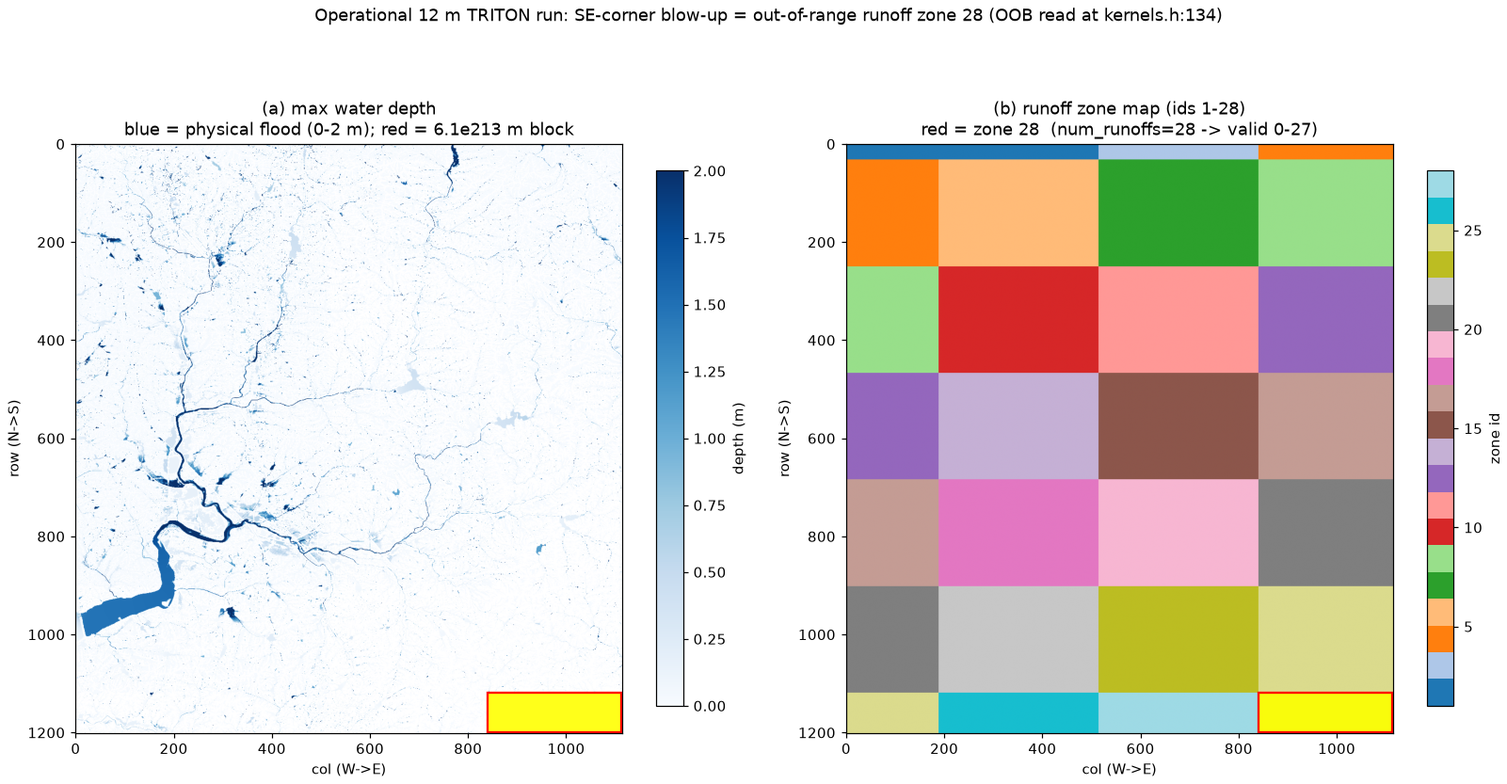
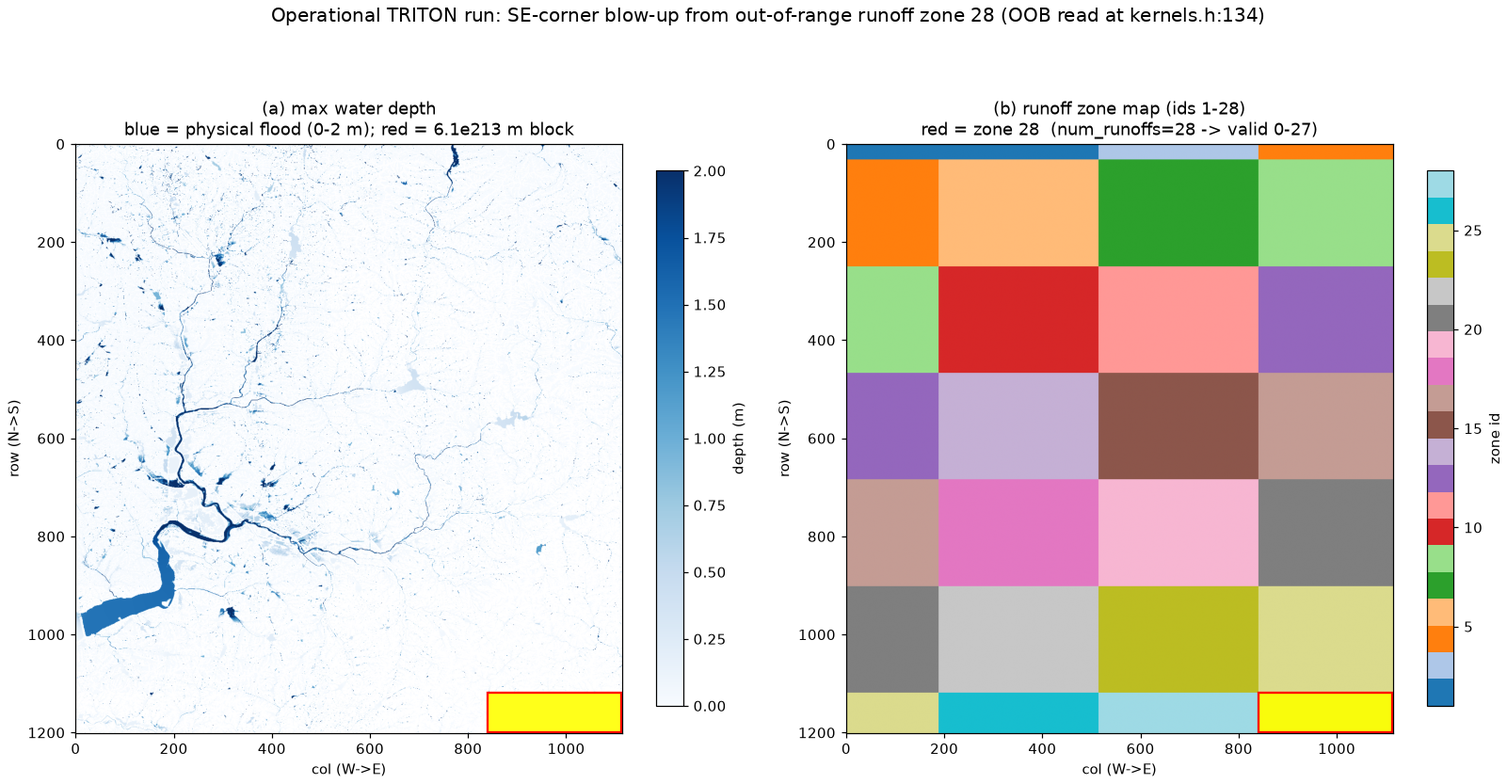
Correct the binary-header claim, redact the run's location, cite the config-checking literature
Reviewing the paper against the repository turned up one factual error, two
claims the repository itself contradicts, and a novelty claim resting on a
field the bibliography never cited.

The header claim was wrong. The paper said TRITON's non-DEM binary rasters
carry no header. The source says otherwise: DEM_HEADER_SIZE is 6 and is seeked
past without validation, while BIN_DEFAULT_HEADER_SIZE is 2 and *is* validated,
so the runoff map, Manning field and initial depth each carry a two-value
[nrows,ncols] header the solver aborts on. The fixtures decode exactly that
way -- dem.bin is 6 f64 then cells, roff.bin is 2 int32 then cells. Nothing is
header-less; the two kinds of raster carry different headers, read by different
overloads. What the tool-free agents actually got wrong was demanding the DEM's
six-number header on the runoff map, where the solver would read it as garbage
dimensions. Three sentences in the paper and three comments in diagnostics.ts
asserted the wrong invariant. Behaviour was already correct -- GRID_HEADER_TOL
absorbs either header -- so no verdict changes.

Two claims the repository contradicts. The appendix pointed Layer 2 at
eval/diagnose-corpus/build as though the solver shipped; it is git-ignored, and
a reviewer must build it and set TRITON_EXE. And "rebuilds byte-for-byte" is
false of the archive: two builds from identical tracked content produce
identical files but different zips, because zip stores mtimes. Verification
[…]

Changed region(s): [[0.1874, 0.0, 0.8432, 0.0312]]

diff --git a/src/services/diagnostics.ts b/src/services/diagnostics.ts
@@ -33,8 +33,9 @@ export interface DiagnosisProbe {
    * (`load_header_from_dem_file_binary`: the first 6 elements are ncols,nrows,xll,yll,
    * cellsize,nodata of the matrix's element type). Returns the grid + bytes-per-cell only
    * when the file size is self-consistent with `(6 + ncols*nrows) * bpc` at float32 or
-   * float64 — so a headerless/malformed DEM yields null. Aux rasters are headerless, so
-   * this is only meaningful for the DEM.
+   * float64 — so a headerless/malformed DEM yields null. Aux rasters carry a 2-value header
+   * rather than this 6-value one, so they never satisfy that shape: this is DEM-only by
+   * construction, not because the others are header-less.
    */
   binHeader(absPath: string): { ncols: number; nrows: number; bpc: number } | null;
   /**
@@ -299,8 +300,9 @@ const hydrographDelimiterCheck: Check = (cfg, cfgDir, probe) => {
 // Real TRITON BIN rasters carry a small (<~64 B observed) header/padding; a wrong grid
 // differs by at least one row (thousands of bytes), so this absorbs headers without masking
 // a genuine mismatch. Kept well below the float32/float64 gap of any real (large) grid.
-// Aux rasters are headerless matrices = exactly cells*bpc bytes; a real deck may carry a few
-// bytes of padding, so allow a small slack that still catches a whole-cell (grid) difference.
+// A same-grid aux raster is cells*bpc plus its own 2-value header (BIN_DEFAULT_HEADER_SIZE),
+// where the DEM's is 6-value, so identical grids still differ by 4*bpc; allow a slack that
+// absorbs either header and still catches a whole-cell (grid) difference.
 const GRID_HEADER_TOL = 64;
 
 /** Cell count from a raster's same-basename `.asc` sidecar (e.g. dem.bin → dem.asc), or null. */
@@ -436,12 +438,15 @@ const gridSizeCheck: Check = (cfg, cfgDir, probe) => {
     }
   } else if (fmt === 'BIN') {
     // Only the DEM is self-describing: it carries a 6-value header (ncols,nrows,...) exactly
-    // as TRITON reads it (load_header_from_dem_file_binary). Aux rasters (runoff map, n, h,
-    // qx, qy) are headerless matrices = cells*bpc bytes. So take the DEM grid from its binary
-    // header (preferred) or a same-basename .asc sidecar, then require each aux raster to fit
-    // that grid at float32/float64. Byte-for-byte equality is the WRONG invariant (a valid DEM
-    // is 6*bpc larger than a same-grid aux, and dtypes may differ); use it only as a last
-    // resort when the DEM grid is unknowable (no header AND no sidecar).
+    // as TRITON reads it (DEM_HEADER_SIZE=6, seeked past without validation). Aux rasters
+    // (runoff map, n, h, qx, qy) are NOT headerless -- they carry a 2-value [nrows,ncols]
+    // header that TRITON validates (BIN_DEFAULT_HEADER_SIZE=2, matrix_io.h:225) -- but their
+    // header is a different size from the DEM's, so their byte counts differ by 4*bpc even on
+    // an identical grid. So take the DEM grid from its binary header (preferred) or a
+    // same-basename .asc sidecar, then require each aux raster to fit that grid at
+    // float32/float64 within GRID_HEADER_TOL, which absorbs either header. Byte-for-byte
+    // equality is the WRONG invariant (headers differ in size, and dtypes may differ); use it
+    // only as a last resort when the DEM grid is unknowable (no header AND no sidecar).
     const demSize = probe.size(demAbs);
     const bh = probe.binHeader(demAbs);
     const demCells = bh ? bh.ncols * bh.nrows : companionGridCells(probe, demAbs);

diff --git a/paper/main.tex b/paper/main.tex
@@ -75,7 +75,7 @@ tellingly---raises how often the agent points at the \emph{right} fault, not mer
 from \textbf{$78$--$80\%$} to \textbf{$98\%$}. Second, the tool reduces false alarms on clean
 projects for the weaker client: Claude's false alarms fall from $3/12$ to $1/12$, while Codex
 already raises none. Third, the tool \emph{reduces} cost---\textbf{$\sim$1.3--1.6$\times$ fewer}
-back-and-forth turns, \textbf{$\sim$2--4$\times$ fewer} output tokens, and $1.6$--$3.8\times$
+back-and-forth turns, \textbf{$\sim$2.3--4.4$\times$ fewer} output tokens, and $1.6$--$3.8\times$
 less wall-clock time---at under \textbf{1.5\%} overhead. Finally, we validate the tool on a
 \emph{real} operational project, where the tool statically catches---in about a second---an
 out-of-range runoff-indexing bug that silently corrupted a production GPU run. We generalize
@@ -127,11 +127,11 @@ configuration file and input files and reports faults \emph{without ever running
 We study this question with TRITON~\cite{triton,tritondocs}, an open-source flood-simulation
 solver developed at Oak Ridge National Laboratory. TRITON solves the full 2D shallow water
 equations to model flood propagation across heterogeneous terrain, and is routinely used for
-operational flood forecasting; TRITON can run on one or many GPUs. A
+flood forecasting; TRITON can run on one or many GPUs. A
 single TRITON run is described entirely by a plain-text \texttt{.cfg} configuration file together
-with the input files that file names---mostly \emph{rasters} (grids of values covering the
-terrain, such as ground elevation) and time series---runoff hydrographs, tabulating discharge
-per zone. These files are
+with the input files that configuration names: mostly \emph{rasters} (grids of values covering the
+terrain, such as ground elevation) and time series (runoff hydrographs, which tabulate discharge
+per zone). These files are
 exactly where the setup-level mistakes we study live. Our tool, \texttt{diagnose\_project},
 inspects these files, and has three defining properties:
 \begin{itemize}
@@ -146,8 +146,9 @@ inspects these files, and has three defining properties:
         wrong. Because it inspects without executing, we call it a \emph{static} check.
   \item \textbf{One implementation, offered wherever the agent lives.} The same core logic is
         offered to agents two ways: as a Model Context Protocol (MCP) server for external agents such as
-        Claude Code or Codex, and as a built-in tool inside the VS~Code Copilot editor. Any action that would change files
-        first asks the user for approval.
+        Claude Code or Codex, and as a built-in tool inside the VS~Code Copilot editor. Diagnosis
+        itself is read-only, and the tools that start a run or unpack files from outside the
+        project first ask the user for approval.
 \end{itemize}
 
 Static diagnosis suits this setting because a TRITON run is declared rather than assembled: the
@@ -193,7 +194,7 @@ failure that prompted the tool.
 \centering
 \includegraphics[width=0.60\textwidth]{figures/operational-anomaly.png}
 \caption{A real ``works-but-wrong'' failure in an operational TRITON run
-($4458\times4802$ cells at 12\,m). (a)~Final maximum water depth: a physical dendritic flood
+($4458\times4802$ cells). (a)~Final maximum water depth: a physical dendritic flood
 (blue, $0$--$2$\,m) \emph{plus} a hard-edged $6\times10^{213}$\,m block in the southeast
 (red). (b)~The runoff zone map: the block sits exactly on zone~28. With
 \texttt{num\_runoffs}=28 and 0-based indexing, that reads one entry past the runoff table.
@@ -372,10 +373,12 @@ inspect the workflow and act on it safely.
 The Triforge extension reaches this legibility through four patterns that wrap the tools, each addressing one part
 of that goal. The first makes the workflow \textbf{readable}: each project ships small plain-text
 files, \texttt{AGENTS.md} and \texttt{CLAUDE.md}, that say what the project is and how it is laid out,
-so an agent understands the project just by reading these files. The second keeps action \textbf{safe}: a read-only
-tool such as diagnosis runs on its own, but any tool that writes files or starts a run first stops and
-asks the person to approve it, so an agent cannot quietly change a project or launch an expensive job
-without consent. The third keeps a project \textbf{portable}: the commands \texttt{export\_tfp} and
+so an agent understands the project just by reading these files. The second keeps action \textbf{safe}:
+a read-only tool such as diagnosis runs on its own, while the tools whose effects reach outside the
+project---starting a run, or unpacking material into one---first stop and ask the person to approve
+them (marked $^\ddagger$ in Table~\ref{tab:tools}), so an agent cannot launch an expensive job or
+import foreign files without consent. The remaining tools write project-local artifacts the user
+asked for, and are not gated. The third keeps a project \textbf{portable}: the commands \texttt{export\_tfp} and
 \texttt{import\_tfp} bundle an entire project---its configuration, inputs, and outputs---into one file
 that can move between a laptop and an HPC cluster; this is the path that later carried the corrected
 run of Section~\ref{sec:realworld} back from the cluster to be re-checked. The fourth keeps action
@@ -414,8 +417,11 @@ against the real TRITON solver.
 Making the test projects \emph{faithful} to the real solver turned out to matter to the result.
 Our binary elevation grids were at first stored without a header. The real solver, however,
 expects a six-number header (grid width and height, corner coordinates, cell size, and a no-data
-marker) at the start of a binary elevation file and reads the data after that header; the other
-binary inputs have no header (we confirmed all of this in the TRITON source). Those
+marker) at the start of a binary elevation file and skips past it to the data; every \emph{other}
+binary raster---runoff map, Manning field, initial depth---instead carries a two-value
+\texttt{[nrows,\,ncols]} header that the solver \emph{validates}, aborting on a mismatch. No
+binary input is header-less; the two kinds of raster simply carry different headers, read by
+different overloads (we confirmed all of this in the TRITON source). Those
 header-less---and often all-zero---placeholder elevation files handed the tool-less agent a
 believable but wrong complaint (``the binary inputs are missing their headers''). That wrong
 complaint pushed aside the intended fault on the binary projects, and so \emph{overstated} the
@@ -512,8 +518,8 @@ numbers exactly (the script writes them to \texttt{report.json}). But a perfect 
 that the tool agrees with \emph{our own} answer key. A perfect score does not show that the key
 itself is right, and a skeptic could fairly suspect that we built the test set to suit the tool.
 To show that the key is right, we check the key against the program the key describes: we run
-every project through the real TRITON build (\texttt{eval/diagnose-corpus/build}) and watch what
-the solver does. Section~\ref{sec:realworld} adds a second, independent check---the tool on a
+every project through a real TRITON build (built as the appendix records; the harness is pointed at
+it with \texttt{TRITON\_EXE}) and watch what the solver does. Section~\ref{sec:realworld} adds a second, independent check---the tool on a
 real project we did not build.
 
 The solver can do one of three things: stop while loading the setup files, run to the end, or
@@ -562,13 +568,13 @@ Doubtful          & finishes, output check unsure & 2 \\
 \end{table}
 
 Checking against the real solver also improved the tool. The check exposed two formatting rules
-the solver silently requires---a numeric header on binary runoff maps, and a comma rather than a
-space between values in rainfall files---and we turned each rule into a new check
+the solver silently requires: a numeric header on binary runoff maps, and a comma rather than a
+space between values in rainfall files. We turned each into a new check
 (Table~\ref{tab:checks}). The check also corrected a project we had mislabeled: a rainfall file
 we had filed as clean is in fact rejected by the solver for using spaces instead of commas, so
 that project is really a fault---one that both tool-free agents had missed. The full per-project
-result---each project's tool finding, solver outcome, and decoded setup---is published for
-reviewers~\cite{artifact-oracle}.
+result is published for reviewers~\cite{artifact-oracle}: each project's tool finding, solver
+outcome, and decoded setup.
 
 \subsection{Does the tool help an AI agent? (with versus without)}
 This is the paper's central question. Table~\ref{tab:results} breaks the agent's accuracy down by
@@ -639,11 +645,12 @@ misreading an input file. That last case is an honest limitation: the tool gives
 but the agent does not always trust the tool. So the ``don't cry wolf'' benefit is real, but the
 benefit lands on the weaker client rather than on both clients.
 
-\noindent\textbf{User-rule projects.} On the projects that break a rule the user declared (a stated
-count of runoff zones or water sources, a run duration, a rainfall range), Codex (\texttt{gpt-5.6-sol}) is perfect with and
-without the tool; Claude (\texttt{claude-sonnet-5}) on its own misses two of five, which the tool restores to $5/5$. Checking a
-declared number against the actual files is something a capable agent does reliably once the
-agent is told the rule, so we present this group as a boundary of the effect rather than a
+\noindent\textbf{User-rule projects.} These projects break a rule the user declared: a stated
+count of runoff zones or water sources, a run duration, a rainfall range. Codex
+(\texttt{gpt-5.6-sol}) is perfect here with and without the tool. Claude
+(\texttt{claude-sonnet-5}) on its own misses two of five; the tool restores it to $5/5$. Once an
+agent is told the rule, checking a declared number against the actual files is something a
+capable agent does reliably, so we treat this group as a boundary of the effect rather than a
 headline result.
 
 \noindent\textbf{The tool's advantage survives correcting the test data.} We found and corrected
@@ -657,9 +664,9 @@ built.
 \subsection{Does calling the tool cost more than it saves?}
 A natural worry is that the cost of \emph{calling} the tool cancels whatever the tool saves. It
 does not (Table~\ref{tab:efficiency}). Each call to the tool---the request sent plus the
-diagnosis text read back---costs only about \textbf{$95$--$110$ tokens}, under $1.5\%$ of
+diagnosis text read back---costs only about \textbf{$90$--$110$ tokens}, under $1.5\%$ of
 everything the \emph{+tool} arm spends. Meanwhile that arm uses about $1.3$--$1.6\times$ fewer
-back-and-forth turns, $2$--$4\times$ fewer output tokens, and $1.6$--$3.8\times$ less wall-clock
+back-and-forth turns, $2.3$--$4.4\times$ fewer output tokens, and $1.6$--$3.8\times$ less wall-clock
 time than the \emph{bare} arm. The saving is far larger than the cost.
 
 \subsection{Real-world validation: a fault the solver never noticed}
@@ -701,7 +708,7 @@ code would ever have revealed.
 logarithmic colour scale, dry cells left blank). \textbf{Left:} the uncorrected run---a runoff
 map numbered from $1$ causes an out-of-range table read that injects a constant
 $\sim$$6\times10^{213}$\,m block in the southeast (highlighted), flattening the real flood
-network at the bottom of a scale spanning some $216$ orders of magnitude. \textbf{Right:} the
+network at the bottom of a scale spanning more than $200$ orders of magnitude. \textbf{Right:} the
 corrected run, numbered from $0$---realistic, terrain-following depths (maximum $20.7$\,m), and
 the block is gone. Re-checking both maps with the tool reports no fault on the corrected run.}
 \label{fig:beforeafter}
@@ -719,17 +726,19 @@ rate, which we measured directly. A domain expert re-graded \emph{all} $248$ abl
 hand, without seeing the judge's verdicts---a check of the judge, not of the project labels. The
 human and the judge agree $98.8\%$ of the time ($245/248$), and $100\%$ ($48/48$) on the clean
 projects that carry the don't-cry-wolf claim; every re-graded run is published for
-inspection~\cite{artifact-human}. All three disagreements gave a \emph{bare}-arm
-answer credit that the judge had scored as a miss (in one case by leaving the run ungraded), so
-the judge, if anything, slightly \emph{under}-rates the bare arm and cannot inflate the tool's
-measured advantage. Two stronger, independent judges confirm that this result is not an artifact
+inspection~\cite{artifact-human}. In all three disagreements, the human gave a \emph{bare}-arm
+answer credit the judge had scored as a miss; one of the three the judge had left ungraded. The
+judge therefore \emph{under}-rates the bare arm, if anything, and cannot inflate the tool's
+advantage.
+
+Two stronger, independent judges confirm that this result is not an artifact
 of judge strength: re-grading every run with Opus (the primary judge's own family) and with
 \texttt{gpt-5.6-sol} (a different family, which cannot share the Claude agent's self-preference)
 leaves the localization advantage intact. Written as Claude/Codex points, the
 \emph{+tool}-minus-\emph{bare} gap is $+18/+20$ under the primary judge, $+22/+20$ under Opus,
-and $+33/+22$ under \texttt{gpt-5.6-sol}; the stronger judges agree with the primary on $95\%$
-and $94\%$ of cells and rate the \emph{bare} arm no higher, so a stronger judge only widens the
-gap. This concern applies only to the with-versus-without comparison: the tool's own accuracy is
+and $+33/+22$ under \texttt{gpt-5.6-sol}. The stronger judges agree with the primary on $95\%$
+and $94\%$ of cells, and rate the \emph{bare} arm no higher. A stronger judge, in other words,
+only widens the gap. This concern applies only to the with-versus-without comparison: the tool's own accuracy is
 checked against the real solver, not by a model (Section~\ref{sec:oracle}).
 
 \paragraph{Could the answer key itself be wrong?} A subtler concern than judge error is that our
@@ -746,10 +755,13 @@ the solver and the human audit, not on who created the files.
 \paragraph{Faithfulness of the test data} As Section~\ref{sec:fidelity} shows, an input format
 that does not match the real solver can quietly distort the result. We traced the solver's
 source, rebuilt every binary project, and re-ran the experiment; the tool now reads the elevation
-header exactly as the solver does. We checked the opposite direction too: a header the agents
-kept insisting the runoff \emph{map} needed is in fact \emph{not} required (and would break the
-solver), so the tool correctly treats those files as header-less. The \emph{bare} arm's remaining
-misses are therefore real agent errors, not leftovers from the test data.
+header exactly as the solver does. We checked the opposite direction too: the agents kept
+insisting the runoff \emph{map} needed the \emph{elevation} file's six-number header. It does
+not---the solver reads that map's first two values as \texttt{[nrows,\,ncols]}, so a six-number
+header would be read as garbage dimensions and rejected. The map does carry a header, just a
+two-value one, and the tool encodes that distinction rather than the agents' guess
+(\texttt{bin-raster-header}). The \emph{bare} arm's remaining misses are therefore real agent
+errors, not leftovers from the test data.
 
 \paragraph{What the tool does not cover} The tool works from the setup files before a run, so
 failures that appear only while the program runs---a missing software library at launch,
@@ -758,8 +770,8 @@ it. Even before a run, the tool is a fixed set of checks for \emph{known} kinds 
 (Table~\ref{tab:checks}), not a general anomaly detector: a brand-new kind of fault with no
 matching check will pass. Two things soften this limit. The agent still reads the files itself
 and catches many faults without the tool (Section~\ref{sec:results}), so the tool's job is to
-make the \emph{recurring} problems reliable, not to catch everything; and adding a check is
-cheap---each is a small, self-contained function tied to one place in the solver source---so the
+make the \emph{recurring} problems reliable, not to catch everything. Adding a check is also
+cheap: each is a small, self-contained function tied to one place in the solver source, so the
 catalog grows as new cases appear. A self-serve way for non-programmers to add checks is left for
 future work.
 
@@ -782,6 +794,19 @@ that port, are left for future work.
 
 \section{Related Work}
 \label{sec:related}
+
+\paragraph{Checking configuration files for mistakes}
+Checking a program's settings before the program runs is an old idea in systems research. Some of
+that work traces a failure back to the setting that caused it~\cite{confdiagnoser}, or has the
+program check its own settings at start-up so a bad one is reported at once instead of hours
+later~\cite{pcheck}. Some ties each setting to the tests that use it~\cite{ctests}, or learns the
+rules a configuration file ought to obey by reading many examples instead of asking a person to
+write them down~\cite{confspec}. Ciri~\cite{ciri} hands the checking to a language model. Our
+checks belong to this family and differ in two ways. What a TRITON configuration points at is not
+more settings but large data files, so a check must open them---read a grid's header, count a
+rainfall table's columns, find the largest zone number in a map---not just read the
+configuration. And that work asks whether the checker finds the mistake; we ask whether giving
+the checker to an AI agent changes what the \emph{agent} concludes.
 
 \paragraph{Agentic AI for HPC and scientific workflows}
 A fast-growing line of work puts LLM agents in charge of scientific campaigns on clusters:
@@ -816,24 +841,20 @@ standardizes how tools are offered to agents. Several MCP servers now target HPC
 execution~\cite{mcp-quantum,materials-aurora}. These servers offer \emph{execution} tools (launch
 jobs, orchestrate campaigns); we contribute a \emph{read-only, static diagnosis} tool over the
 same standard---and rather than only showing that the tool works, we test whether the tool
-actually changes what the agent finds, through a controlled with-versus-without comparison. This
-point also separates the contribution from a conventional configuration linter. Run as a
-stand-alone command, the same checks would sit outside the agent's reasoning loop. Exposed over
-MCP, the checks become something the agent invokes mid-diagnosis and acts on---and the $\pm$tool
-comparison measures precisely that change in the agent's behavior, not merely the checks in
-isolation.
+actually changes what the agent finds, through a controlled with-versus-without comparison.
 
-To our knowledge, no prior work evaluates a \emph{static} diagnosis tool that reads exactly what the
-solver reads, for a scientific solver, through a controlled with-versus-without comparison across
-independent agent clients; the closest work~\cite{lara} validates inside a generation pipeline using
-dry runs, and the
-software-engineering line operates on code repositories by running them.
+To our knowledge, no prior work measures whether such a checker changes what an \emph{agent}
+concludes. That is the gap we fill: a $\pm$tool ablation on a scientific solver, two independent
+clients, graded blind against solver-confirmed labels. The nearest work stops
+short---\cite{lara} validates inside a generation pipeline using dry runs, the
+software-engineering line runs code repositories, and the configuration-checking line tests the
+checker, not the agent.
 
 \section{Conclusion}
 \label{sec:conclusion}
-A small, static tool that works from a project's own setup files---and that reaches the agent
-through standard interfaces---measurably improves an AI assistant's ability to catch ``works but
-is wrong'' HPC faults before any compute is spent. The tool does this while \emph{reducing} the
+A small, static tool measurably improves an AI assistant's ability to catch ``works but is
+wrong'' HPC faults before any compute is spent. It works from the project's own setup files and
+reaches the agent through standard interfaces. The tool does this while \emph{reducing} the
 agent's turns and cost. The result holds across two independent AI clients, and the tool's own
 overhead is negligible. The compute at stake dwarfs that overhead: the operational run of
 Section~\ref{sec:motivation} held $40$ A100 GPUs for some $27$~minutes---about $18$
@@ -845,8 +866,8 @@ the real program, not merely constructed: a missing header in our binary inputs 
 yet quietly made the tool look better than it was, and we caught it only by running every fixture
 through the solver. Second, these faults live exactly where a convention looks standard but is
 not. The upstream pipeline numbered runoff zones from $1$, as GIS tools do, while the solver
-indexes from $0$; and our tool-free agents repeatedly insisted that the runoff map needed a header
-the solver in fact rejects. Both are setups that satisfy surface plausibility while violating the
+indexes from $0$; and our tool-free agents repeatedly insisted that the runoff map needed the
+elevation file's six-number header, which the solver in fact rejects there. Both are setups that satisfy surface plausibility while violating the
 solver's own semantics---which is precisely what \texttt{diagnose\_project} encodes.
 
 \section*{Acknowledgment}
@@ -884,15 +905,17 @@ records and the four reviewer artifact pages, which carry the answer, gold label
 verdict for every one of the 248 ablation runs.
 \emph{Run-time environment:} Ubuntu~24.04.4 LTS (kernel~7.0.0), Node~22.22.2,
 Python~3.12.3, \texttt{jq}~1.7, bubblewrap~0.9.0; no root access needed.
-\emph{Hardware:} Layers~1--2 need only a commodity x86-64 machine---ours was a 4-core Intel
-Core~i5-4250U with 7\,GB RAM. The operational run of Figures~\ref{fig:anomaly}
-and~\ref{fig:beforeafter} used 40 NVIDIA~A100 GPUs (10 nodes $\times$ 4) on a private
-cluster at the Oak Ridge Leadership Computing Facility.
+\emph{Hardware:} Layers~1--2 need only a commodity x86-64 machine---ours was a dual-core
+(4-thread) Intel Core~i5-4250U with 7\,GB RAM. The operational run of Figures~\ref{fig:anomaly}
+and~\ref{fig:beforeafter} used 40 NVIDIA~A100 GPUs (10 nodes $\times$ 4) on a custom
+computing cluster.
 \emph{AI clients:} Claude Code~2.1.221 (\texttt{claude-sonnet-5}) and Codex CLI~0.144.5
 (\texttt{gpt-5.6-sol}); blind judge \texttt{claude-sonnet-5}.
 \emph{Metrics:} those of Tables~\ref{tab:results} and~\ref{tab:efficiency}, one layer each.
-\emph{Disk and time:} the bundle is 2.8\,MB compressed (191 files) and is built from the
-repository's tracked content alone, so it rebuilds byte-for-byte from a fresh clone;
+\emph{Disk and time:} the bundle is 2.8\,MB compressed (191 checksummed files) and is built from
+the repository's tracked content alone, so a rebuild from a fresh clone reproduces every file
+byte-for-byte---verify against the enclosed \texttt{SHA256SUMS}, not the archive's own hash, which
+carries build timestamps;
 Layer~1 finishes in seconds, Layer~2 is 32 short single-core solver runs, and Layer~3 is
 248 agent runs and the only layer that costs money.
 \emph{Availability:} \url{https://github.com/grnydawn/triforge-extension-agenticai4hpc} plus an
@@ -910,8 +933,12 @@ committed copy confirms the numbers exactly. The regenerated report is also publ
 browsable online artifact~\cite{artifact-tool}.
 
 \paragraph{Layer~2 --- checked against the real solver, still no AI} The claim that the answer key
-itself is correct (Section~\ref{sec:oracle}) reproduces with the TRITON build under
-\texttt{eval/diagnose-corpus/build} but \emph{no} AI service.
+itself is correct (Section~\ref{sec:oracle}) reproduces with a TRITON build but \emph{no} AI
+service. The compiled solver is deliberately not shipped---a machine-specific binary is not
+evidence---so the reviewer builds it from the recorded commit and pins it with
+\texttt{export TRITON\_EXE=/path/to/triton.exe}; the scripts otherwise look for
+\texttt{eval/diagnose-corpus/build/triton.exe} and refuse to run without a solver, because a
+failed launch is indistinguishable from a deck the solver rejects at load time.
 \texttt{scripts/eval/run-triton-oracle-corpus.sh} runs every project through the real solver and
 records what it did (reject at startup~/ run to completion~/ run then crash) to
 \texttt{oracle-report.json}; \texttt{three-tier-corpus.sh} then adds an automatic output-sanity scan

diff --git a/eval/diagnose-corpus/runs/robustness/README.md b/eval/diagnose-corpus/runs/robustness/README.md
@@ -46,6 +46,8 @@ node scripts/eval/tabulate-ablation.mjs eval/diagnose-corpus/runs/robustness/opu
 node scripts/eval/tabulate-ablation.mjs eval/diagnose-corpus/runs/robustness/codex
 ```
 
-The four `results-<client>-judged.csv` files here are committed (force-added past the `runs/.gitignore`
-`results-*.csv` rule) so the numbers above regenerate without re-running the judges. The per-cell
-`*.judge.txt` rationale sidecars are regenerable and not tracked.
+The per-judge `results-<client>-judged.csv` files are **not** tracked — they fall under the
+`runs/.gitignore` `results-*.csv` rule, like the primary judge's own graded CSVs. A clone carries
+this README and the tables above, but re-deriving them means re-running the two re-grades, which
+costs four judged passes over 248 saved answers. The per-cell `*.judge.txt` rationale sidecars are
+likewise regenerable and not tracked.

diff --git a/README.md b/README.md
@@ -38,7 +38,7 @@ Description appendix carries the full check-list.
 | 4 | the same as Layer 3, plus `python3` for `mcp-overhead.py` |
 
 The recorded environment is Ubuntu 24.04.4 LTS, Node 22.22.2, Python 3.12.3, `jq` 1.7,
-bubblewrap 0.9.0. Layers 1 and 2 ran on a 4-core Intel Core i5-4250U with 7 GB RAM.
+bubblewrap 0.9.0. Layers 1 and 2 ran on a dual-core (4-thread) Intel Core i5-4250U with 7 GB RAM.
 
 **Layer 1 — no AI service, finishes in seconds.**
 
